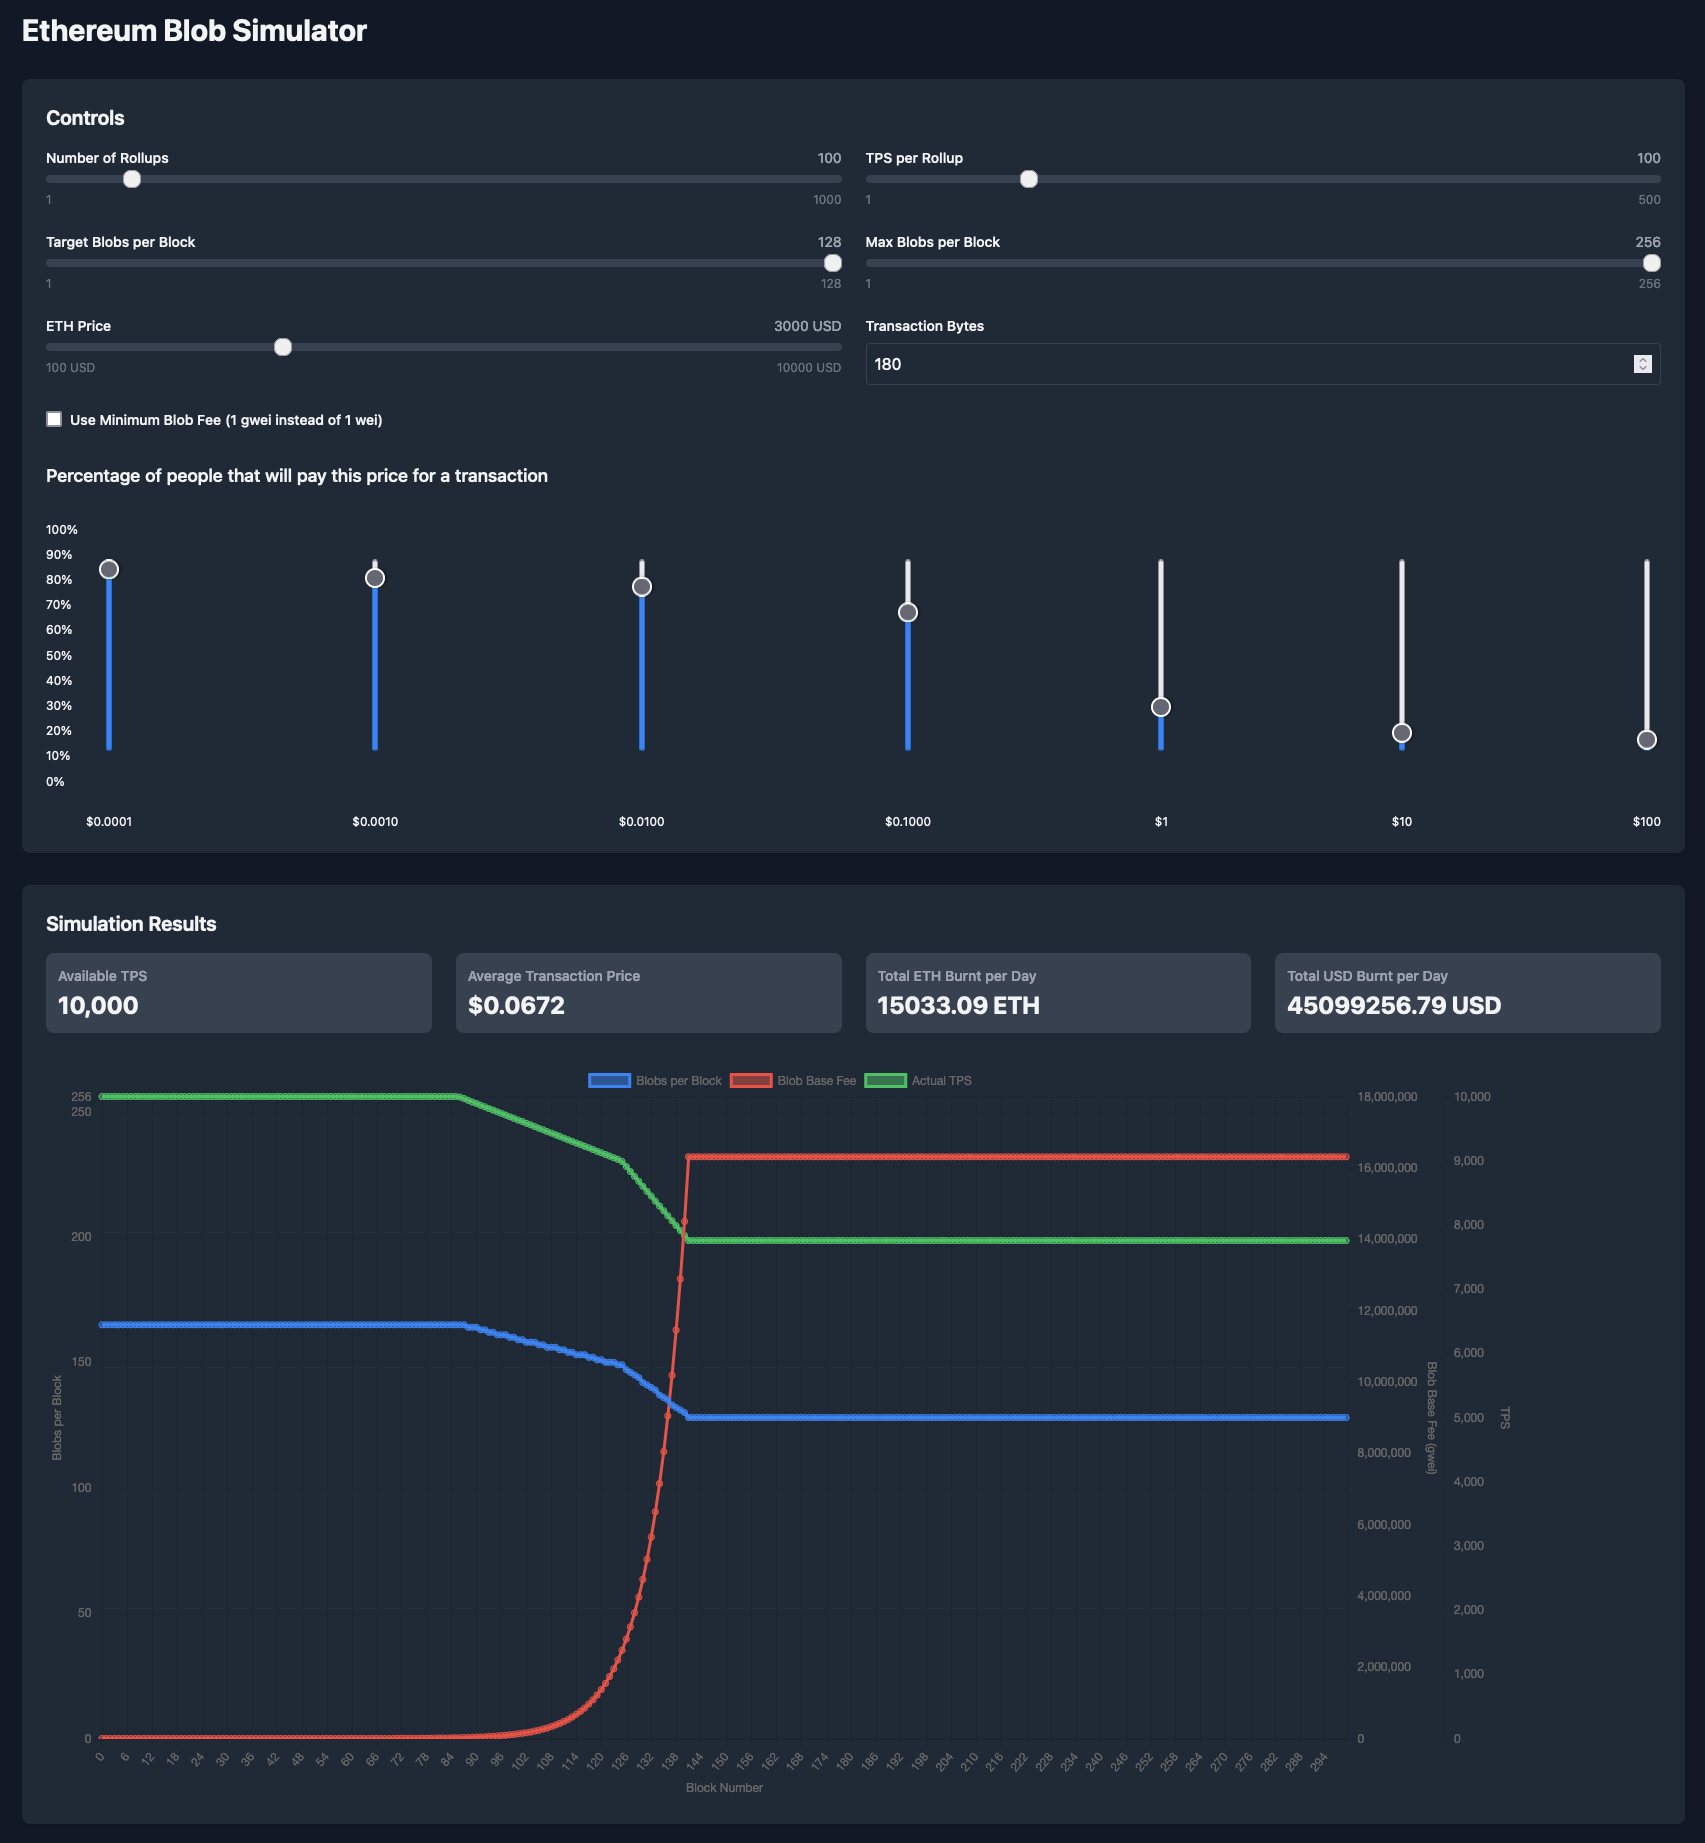
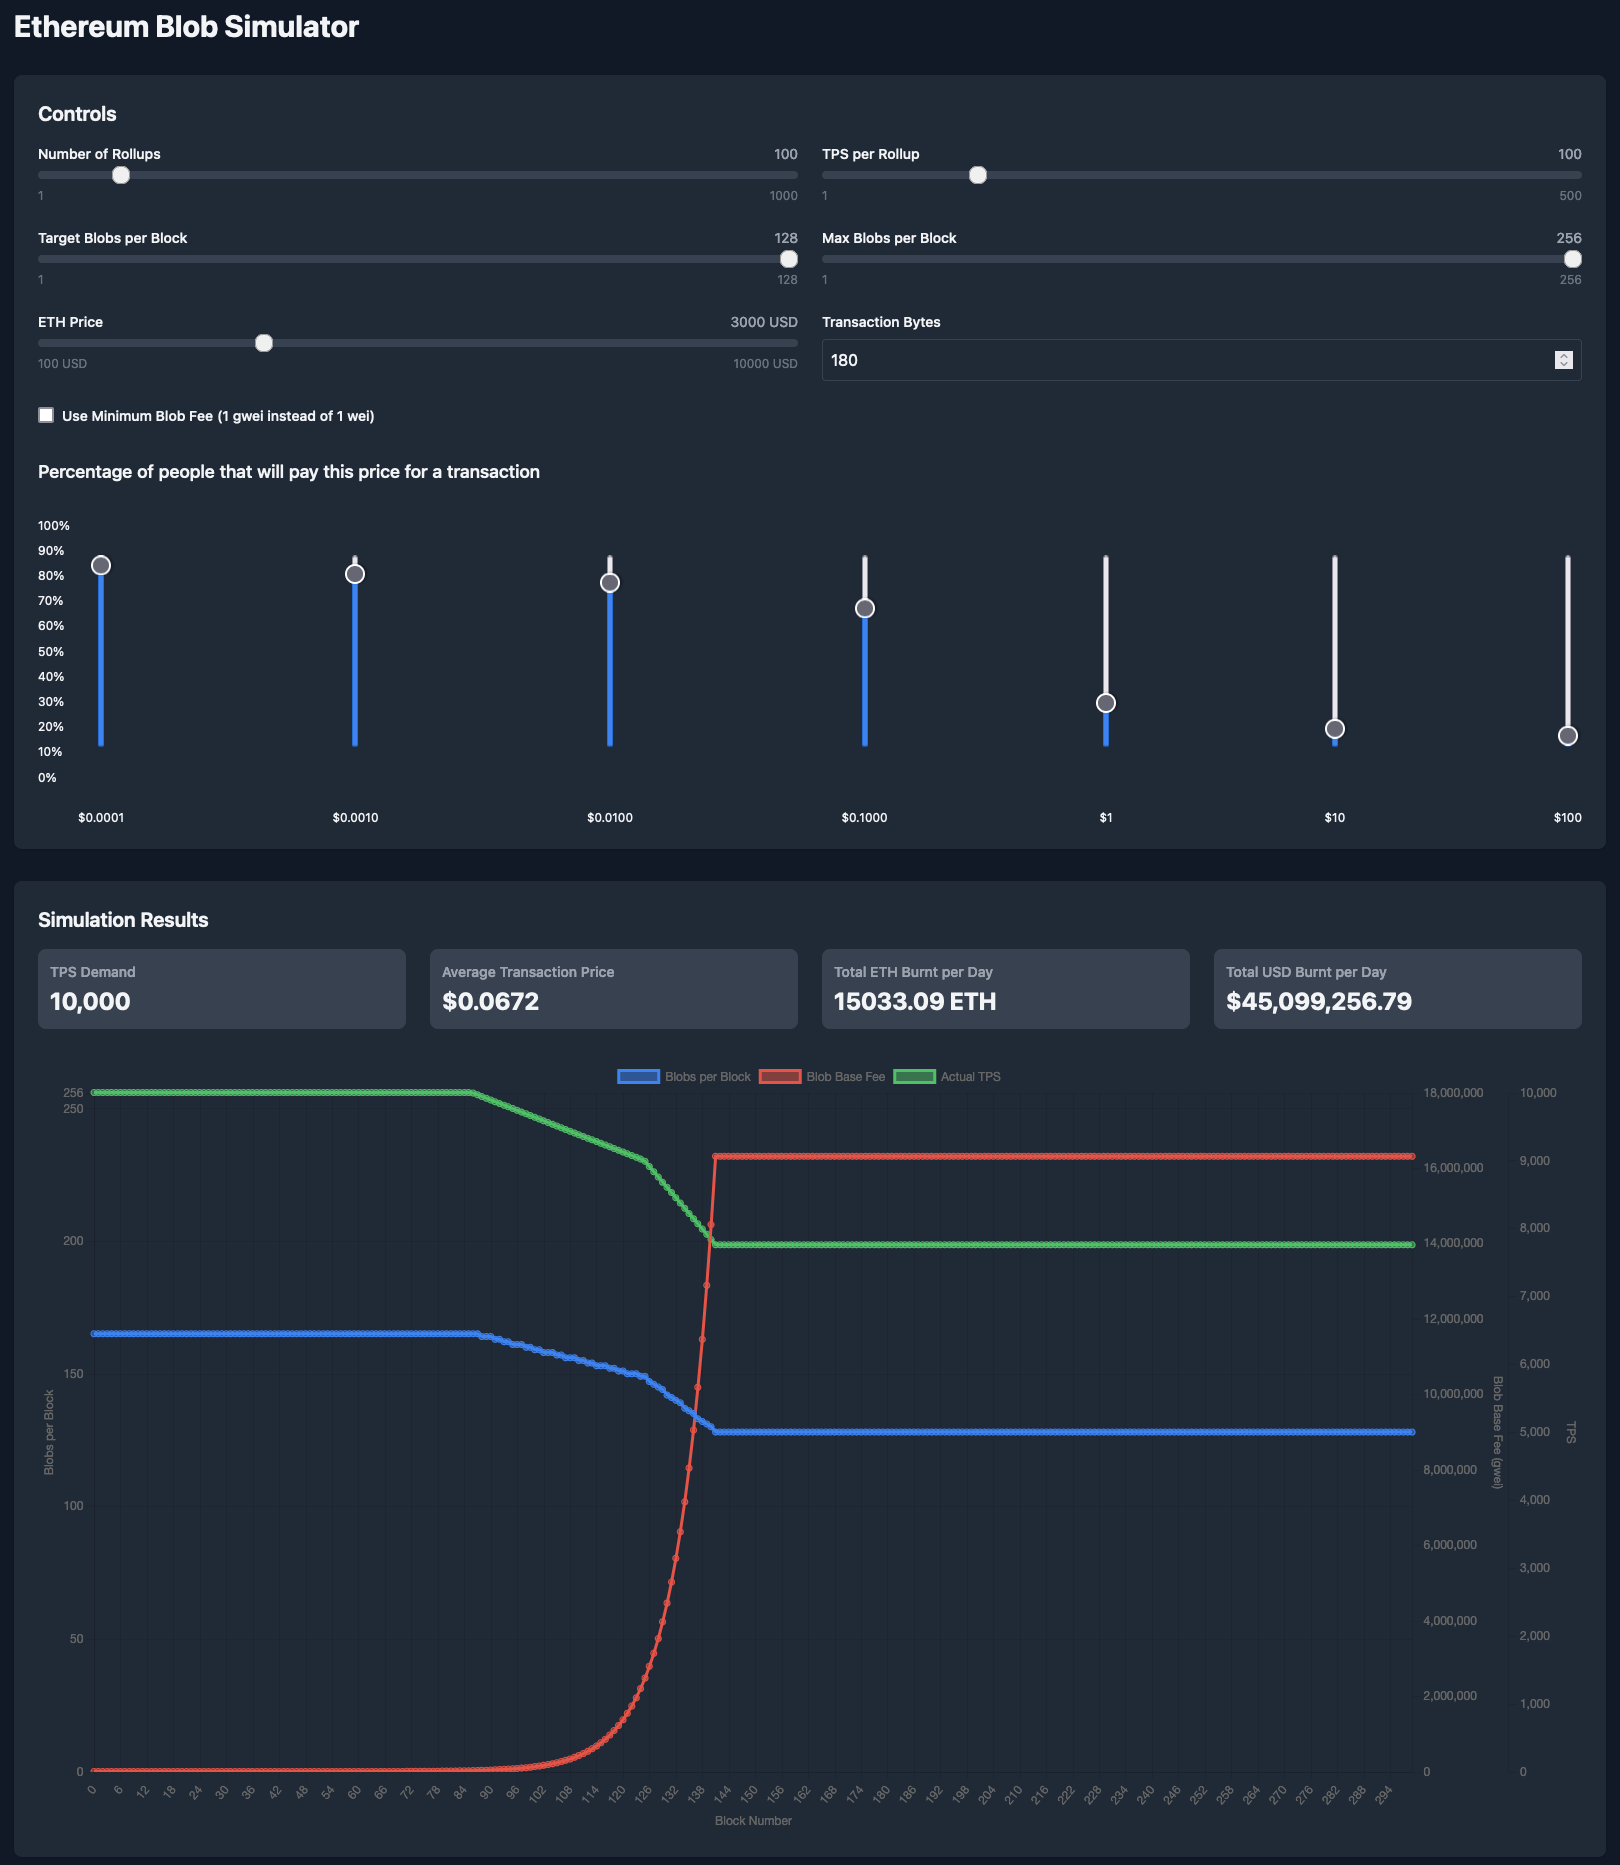
Fix bug where TPS was uncapped in beginning. Update screenshot

diff --git a/src/utils/simulation.ts b/src/utils/simulation.ts
@@ -74,6 +74,7 @@ export function generateTimeSeriesData(params: SimulationParams): TimePoint[] {
   const txPerBlob = calculateTransactionsPerBlob(params.txBytes)
   const totalPotentialTps = params.rollupCount * params.tpsPerRollup
   const blocksPerHour = Math.floor(3600 / BLOCK_TIME) // Calculate number of blocks in an hour
+  const maxTps = txPerBlob * params.maxBlobsPerBlock;
   
   // Start with minimum blob fee (1 wei or 1 gwei)
   let currentBlobFee = MINIMUM_BLOB_FEE
@@ -86,7 +87,7 @@ export function generateTimeSeriesData(params: SimulationParams): TimePoint[] {
     // Update TPS based on willing users before calculating required blobs
     const willingUsers = getWillingUsers(txPriceUsd, params.gasCostGrid)
     console.log("tx Price: ", txPriceUsd, " willing users: ", willingUsers)
-    currentTps = totalPotentialTps * willingUsers
+    currentTps = Math.min(maxTps, totalPotentialTps * willingUsers)
     
     // Calculate required blobs based on current TPS
     let requiredBlobs = Math.min(
